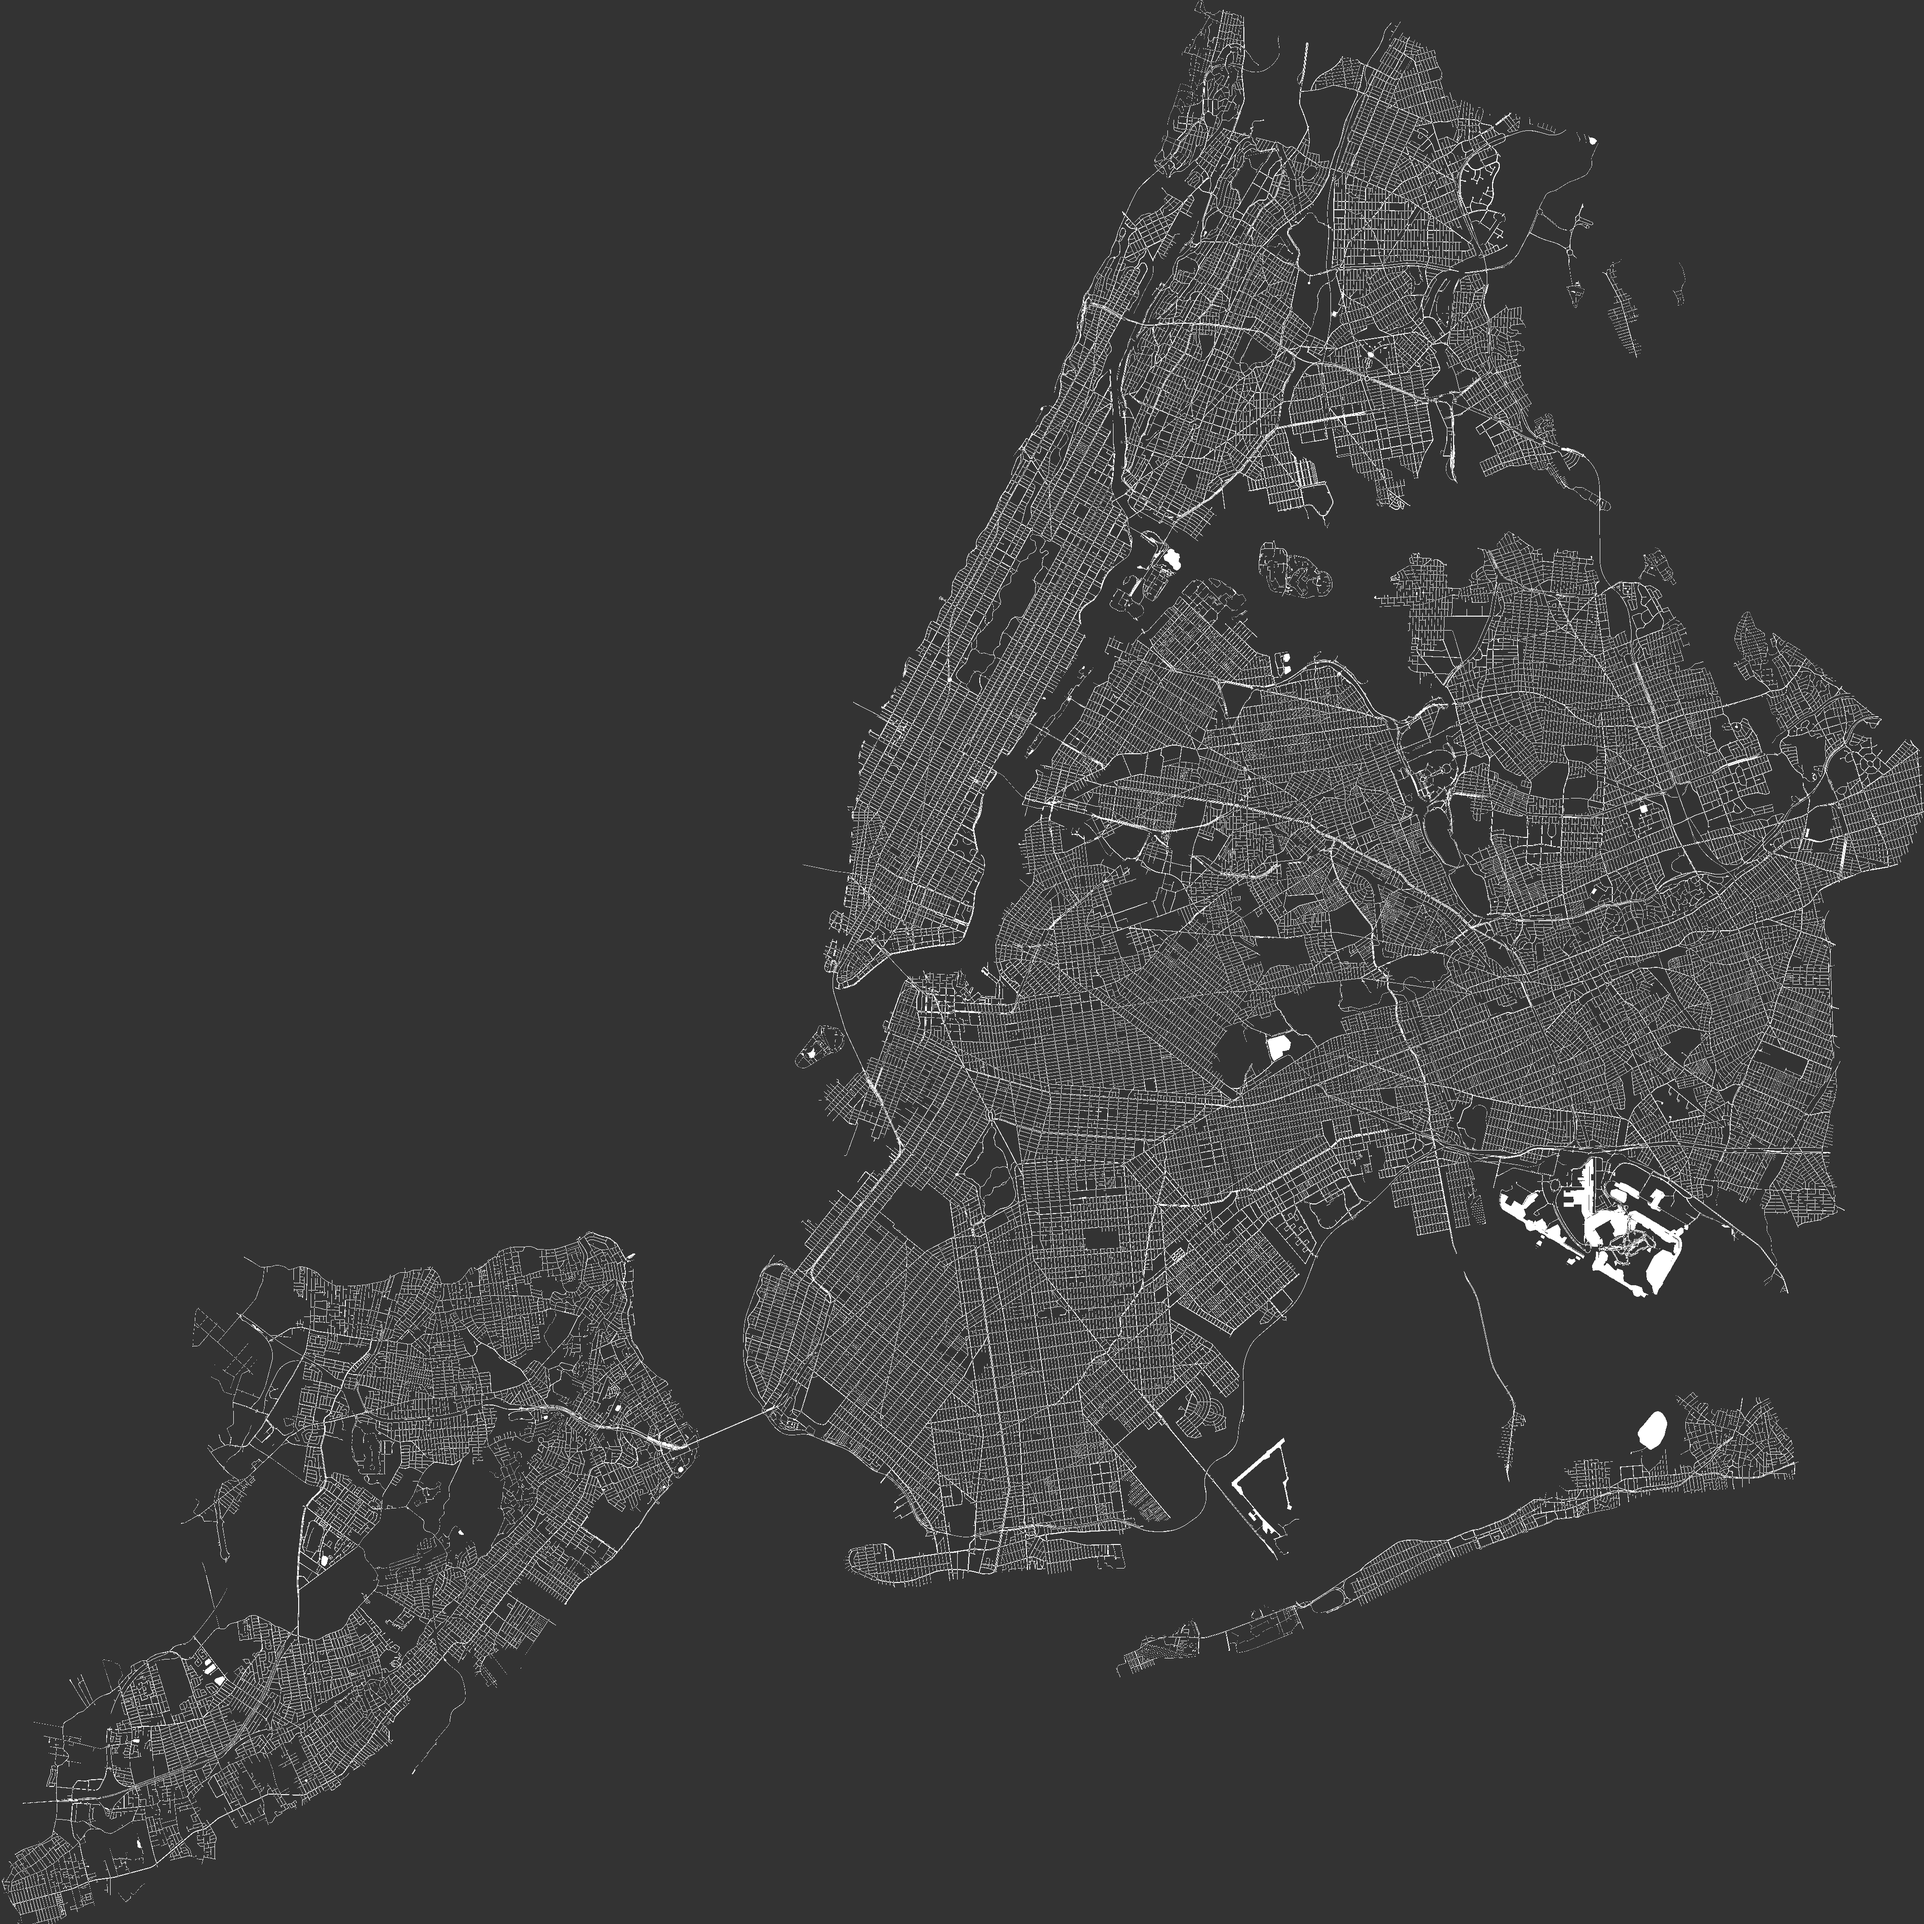
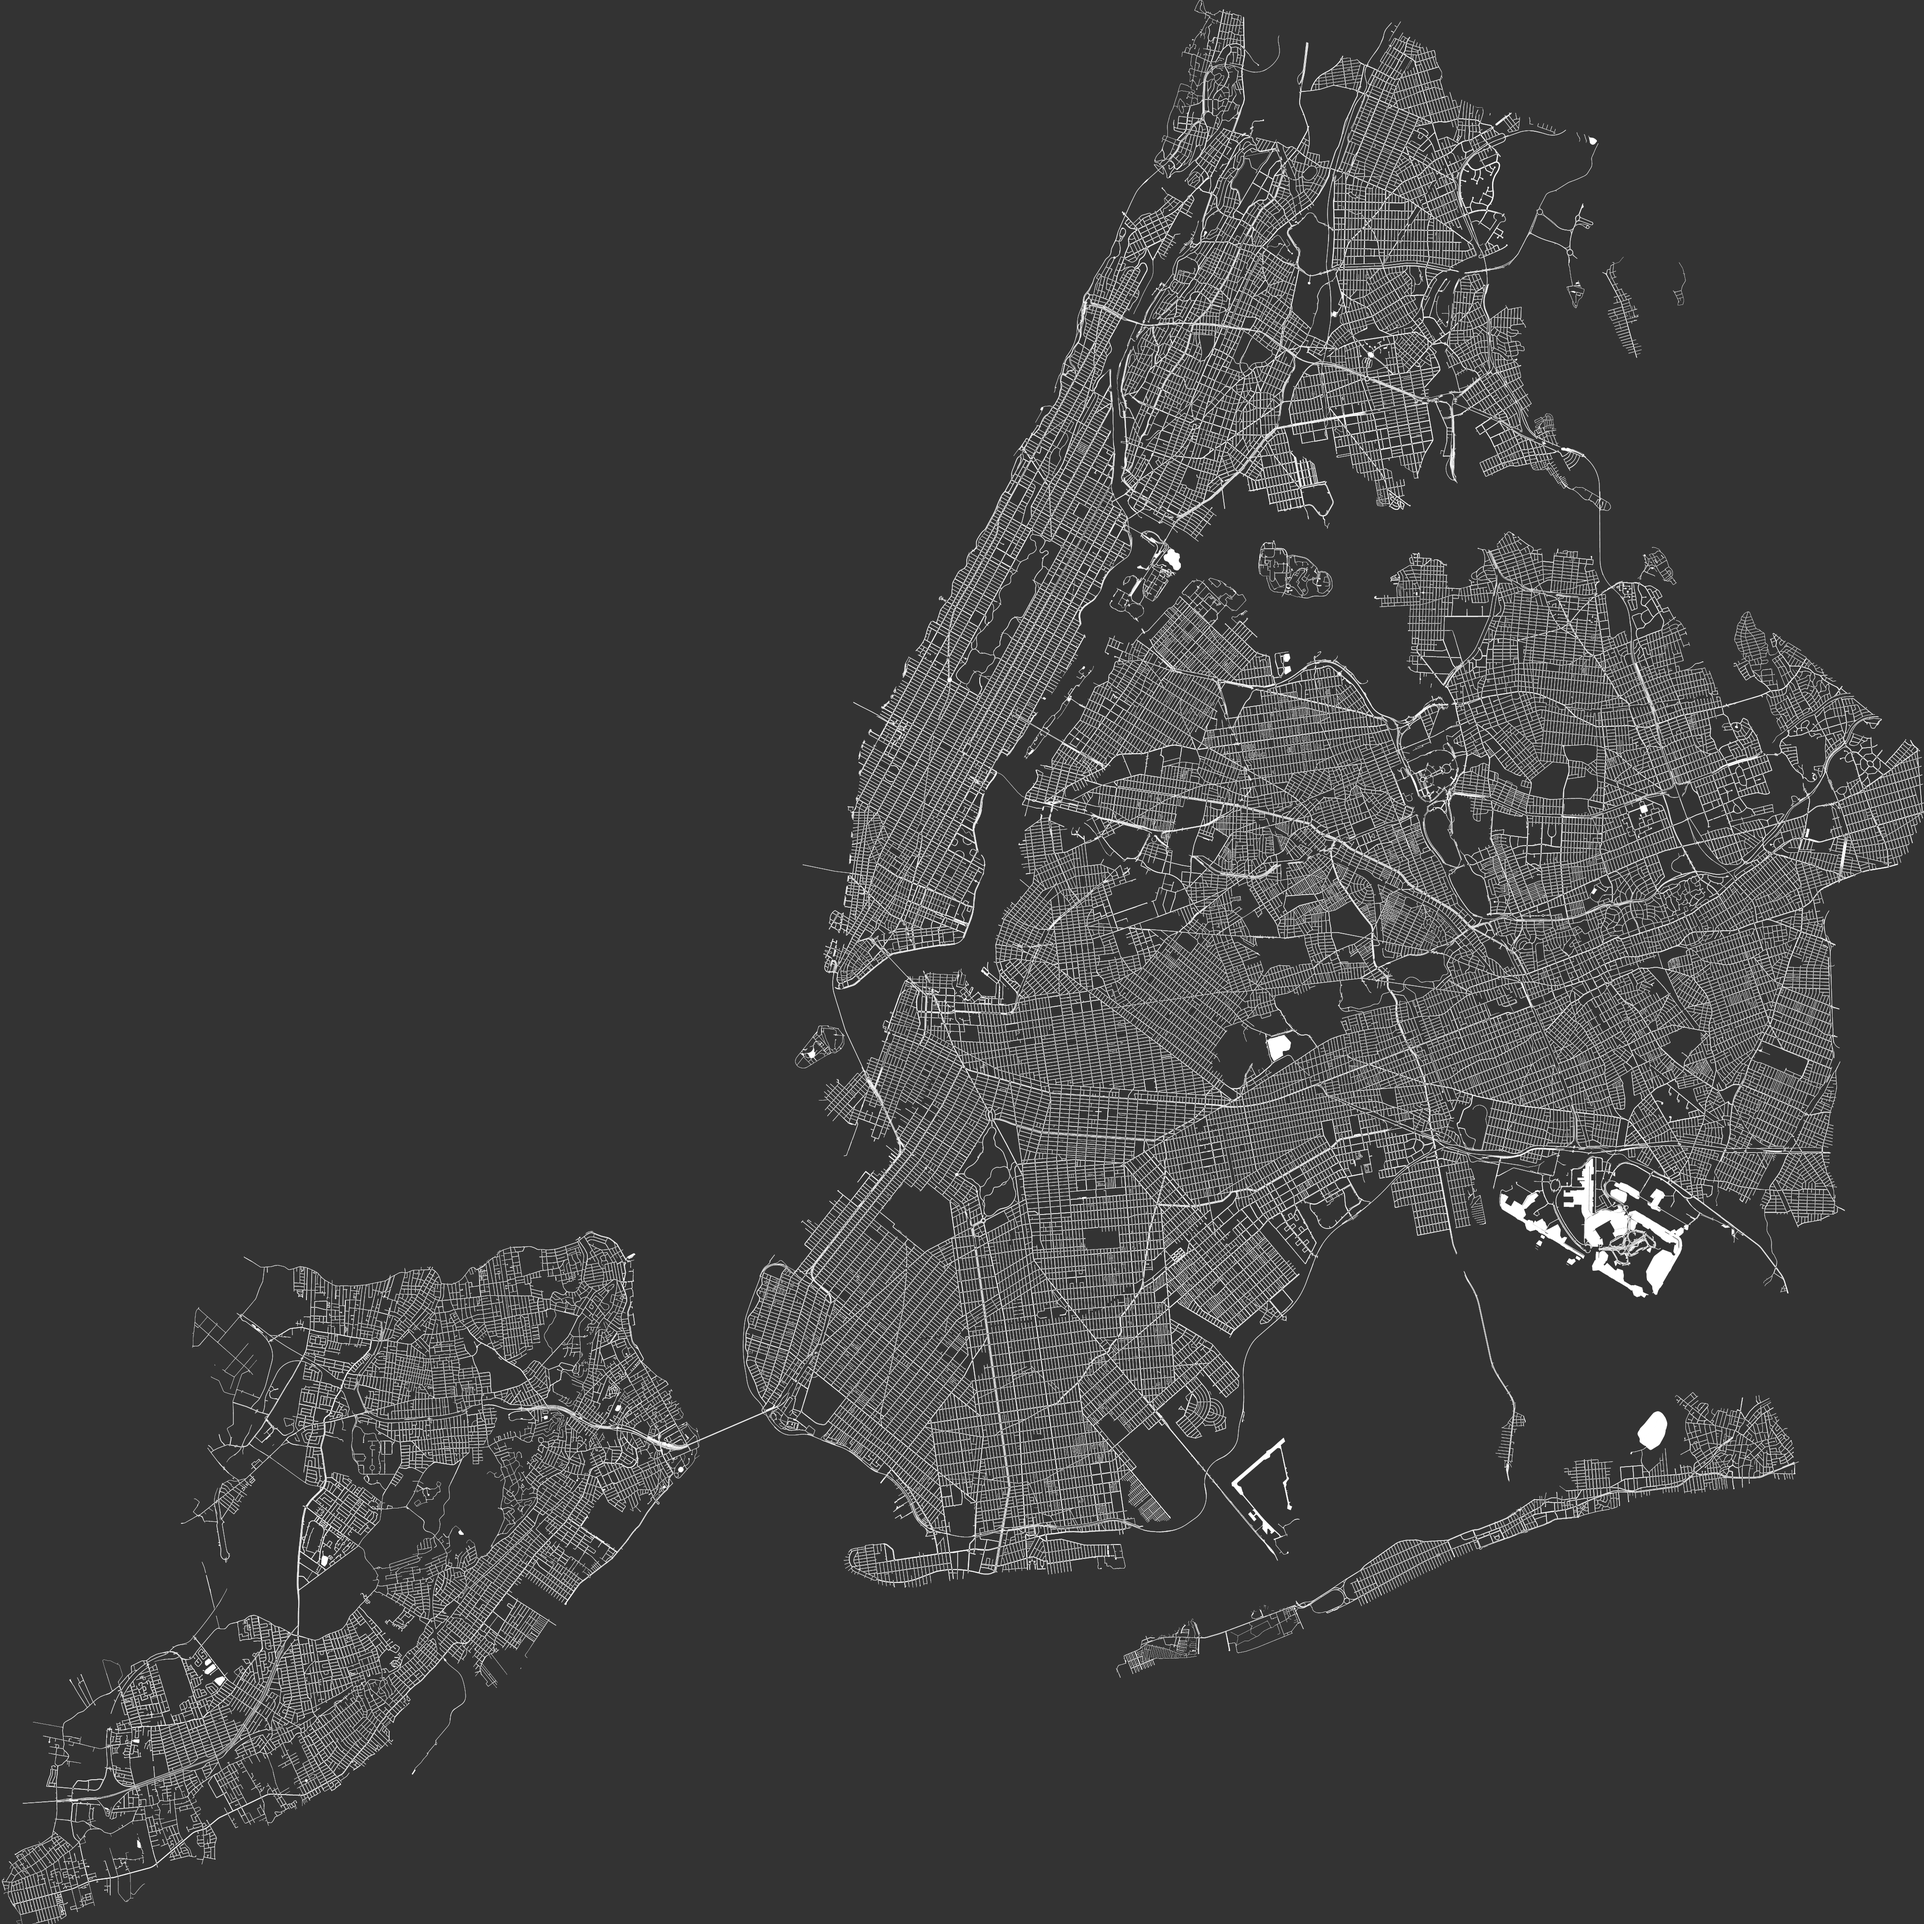
graphics quality fix

diff --git a/GMLTool/GMLTool/Program.cs b/GMLTool/GMLTool/Program.cs
@@ -284,8 +284,10 @@ namespace GMLTool
             Graphics graphics = Graphics.FromImage(bitmap);
             graphics.CompositingQuality = System.Drawing.Drawing2D.CompositingQuality.HighQuality;
             graphics.InterpolationMode = System.Drawing.Drawing2D.InterpolationMode.HighQualityBicubic;
+            graphics.SmoothingMode = System.Drawing.Drawing2D.SmoothingMode.HighQuality;
 
             //graphics.Clear(Color.FromArgb(0xff, 0x33, 0x33, 0x33));
+            graphics.Clear(Color.FromArgb(0x00, 0xff, 0xff, 0xff));
             Brush foregroundBrush = new SolidBrush(Color.FromArgb(0xff, 0xff, 0xff, 0xff));
 
             while (gmlReader.Read())
